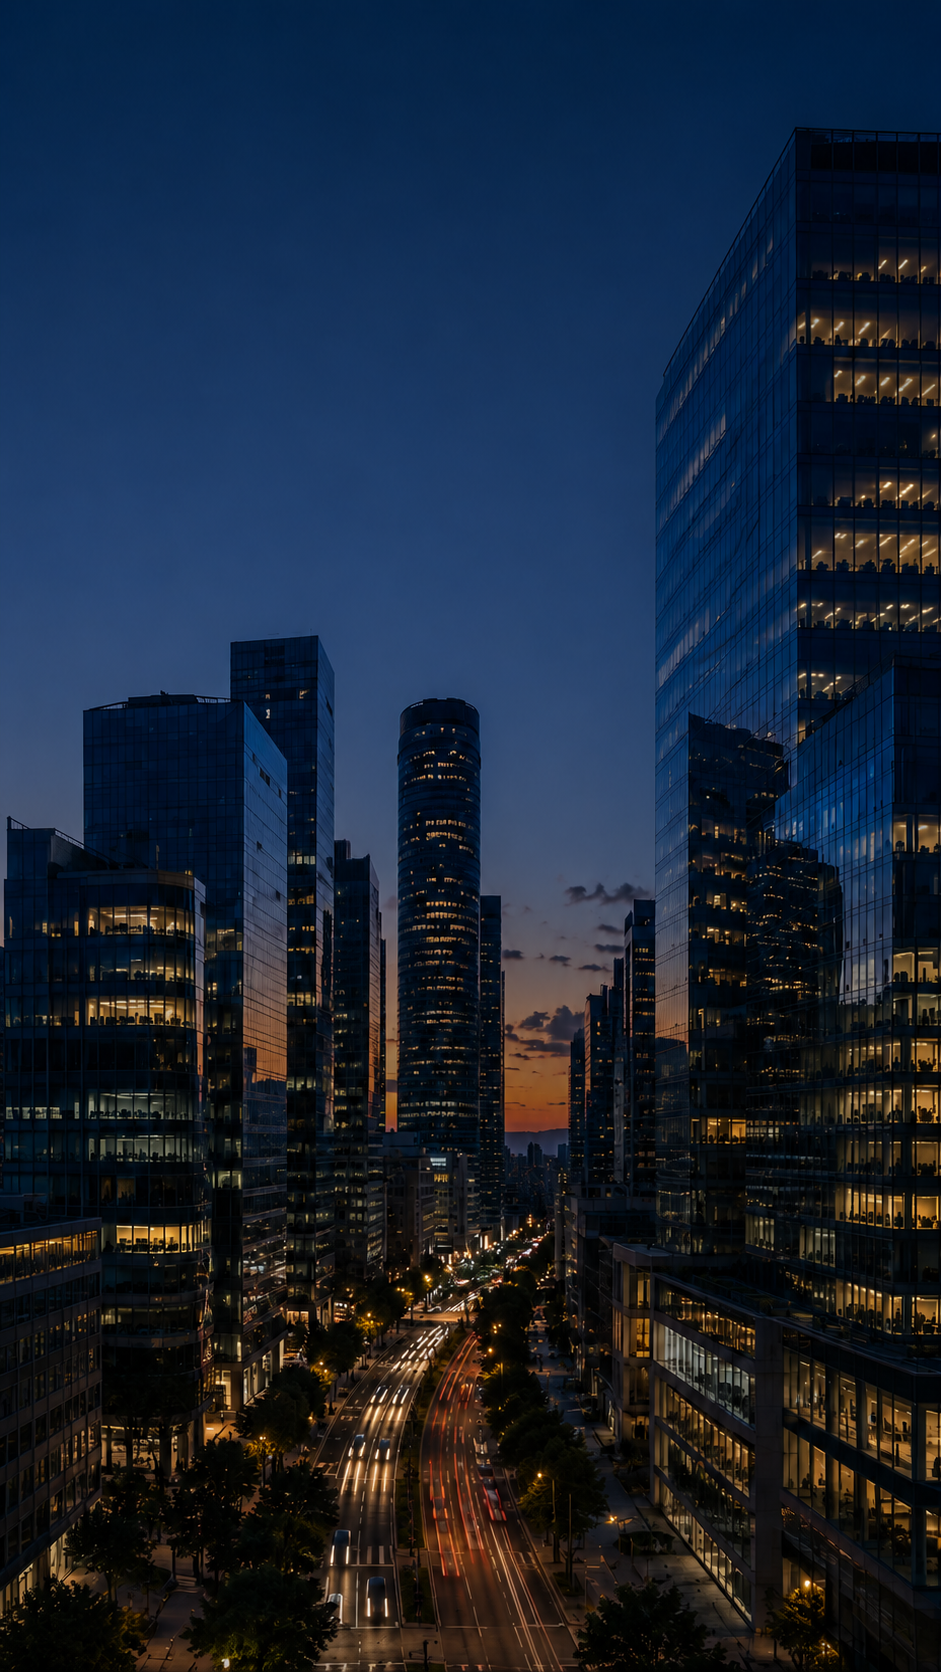
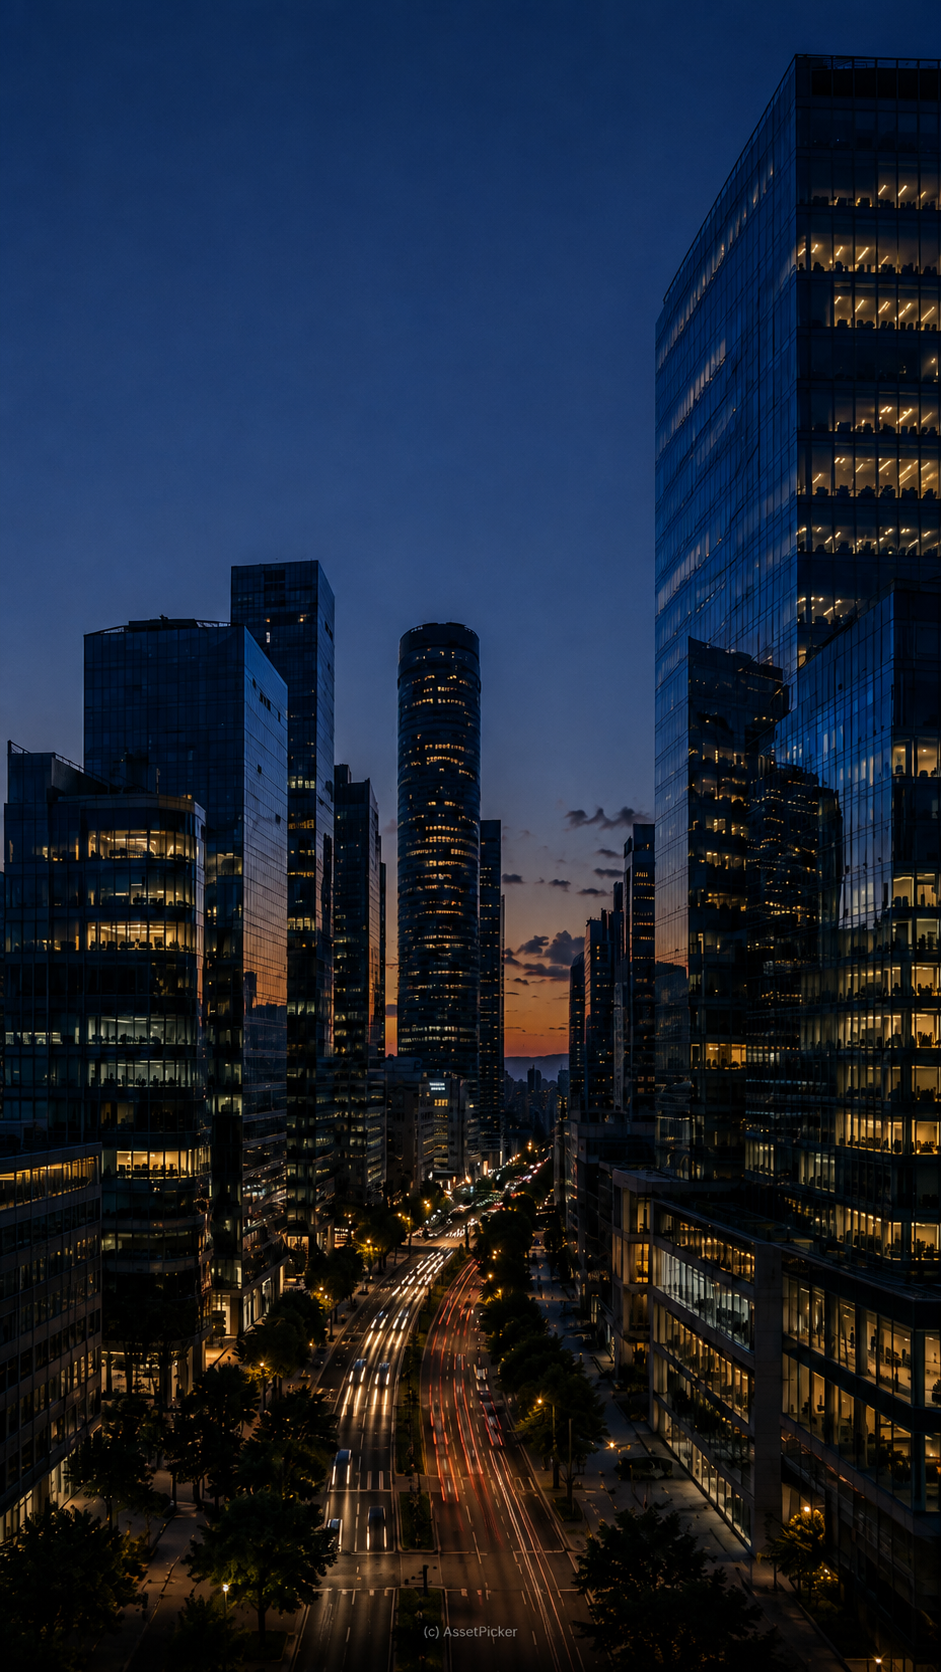
chore: add copyright credits to brand images

diff --git a/app/brands/assetpicker/page.tsx b/app/brands/assetpicker/page.tsx
@@ -304,7 +304,7 @@ export default function AssetPickerPage() {
                     >
           
                       <img
-                        src="/images/assetpicker-channel.jpg"
+                        src="/images/assetpicker-channel.png"
                         alt="AssetPicker Shorts Playlist"
                         className="
                           block
